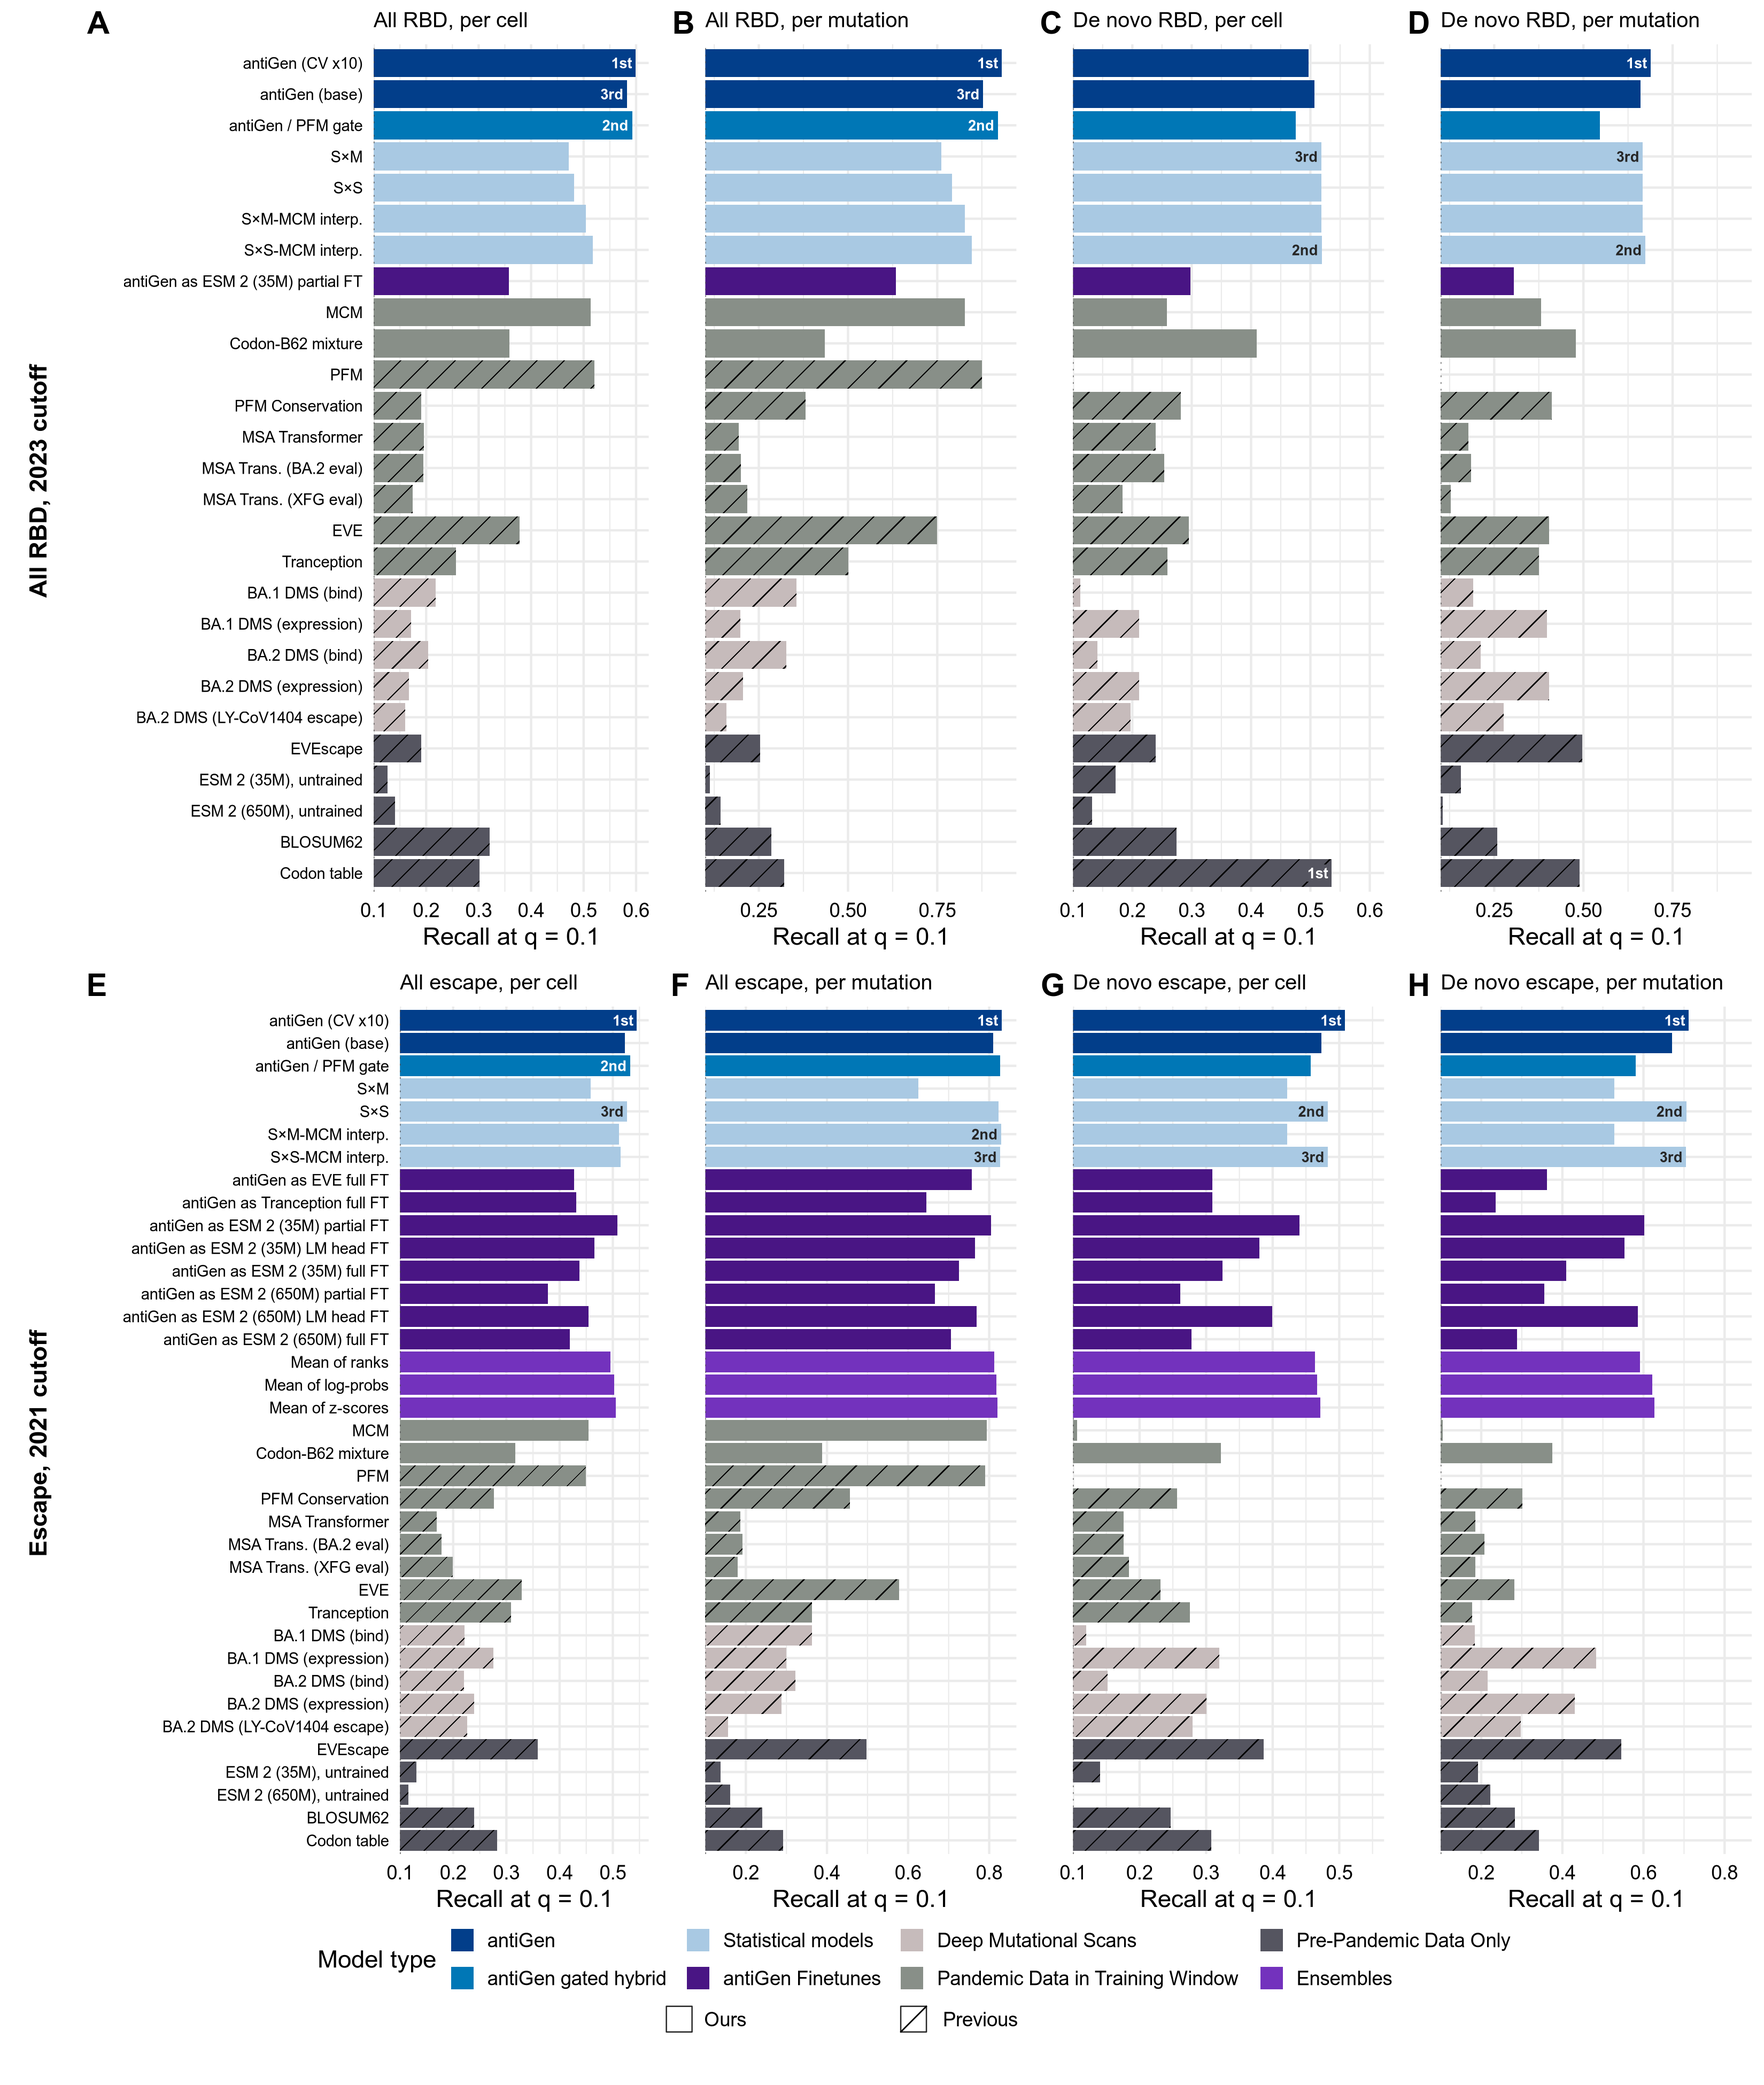
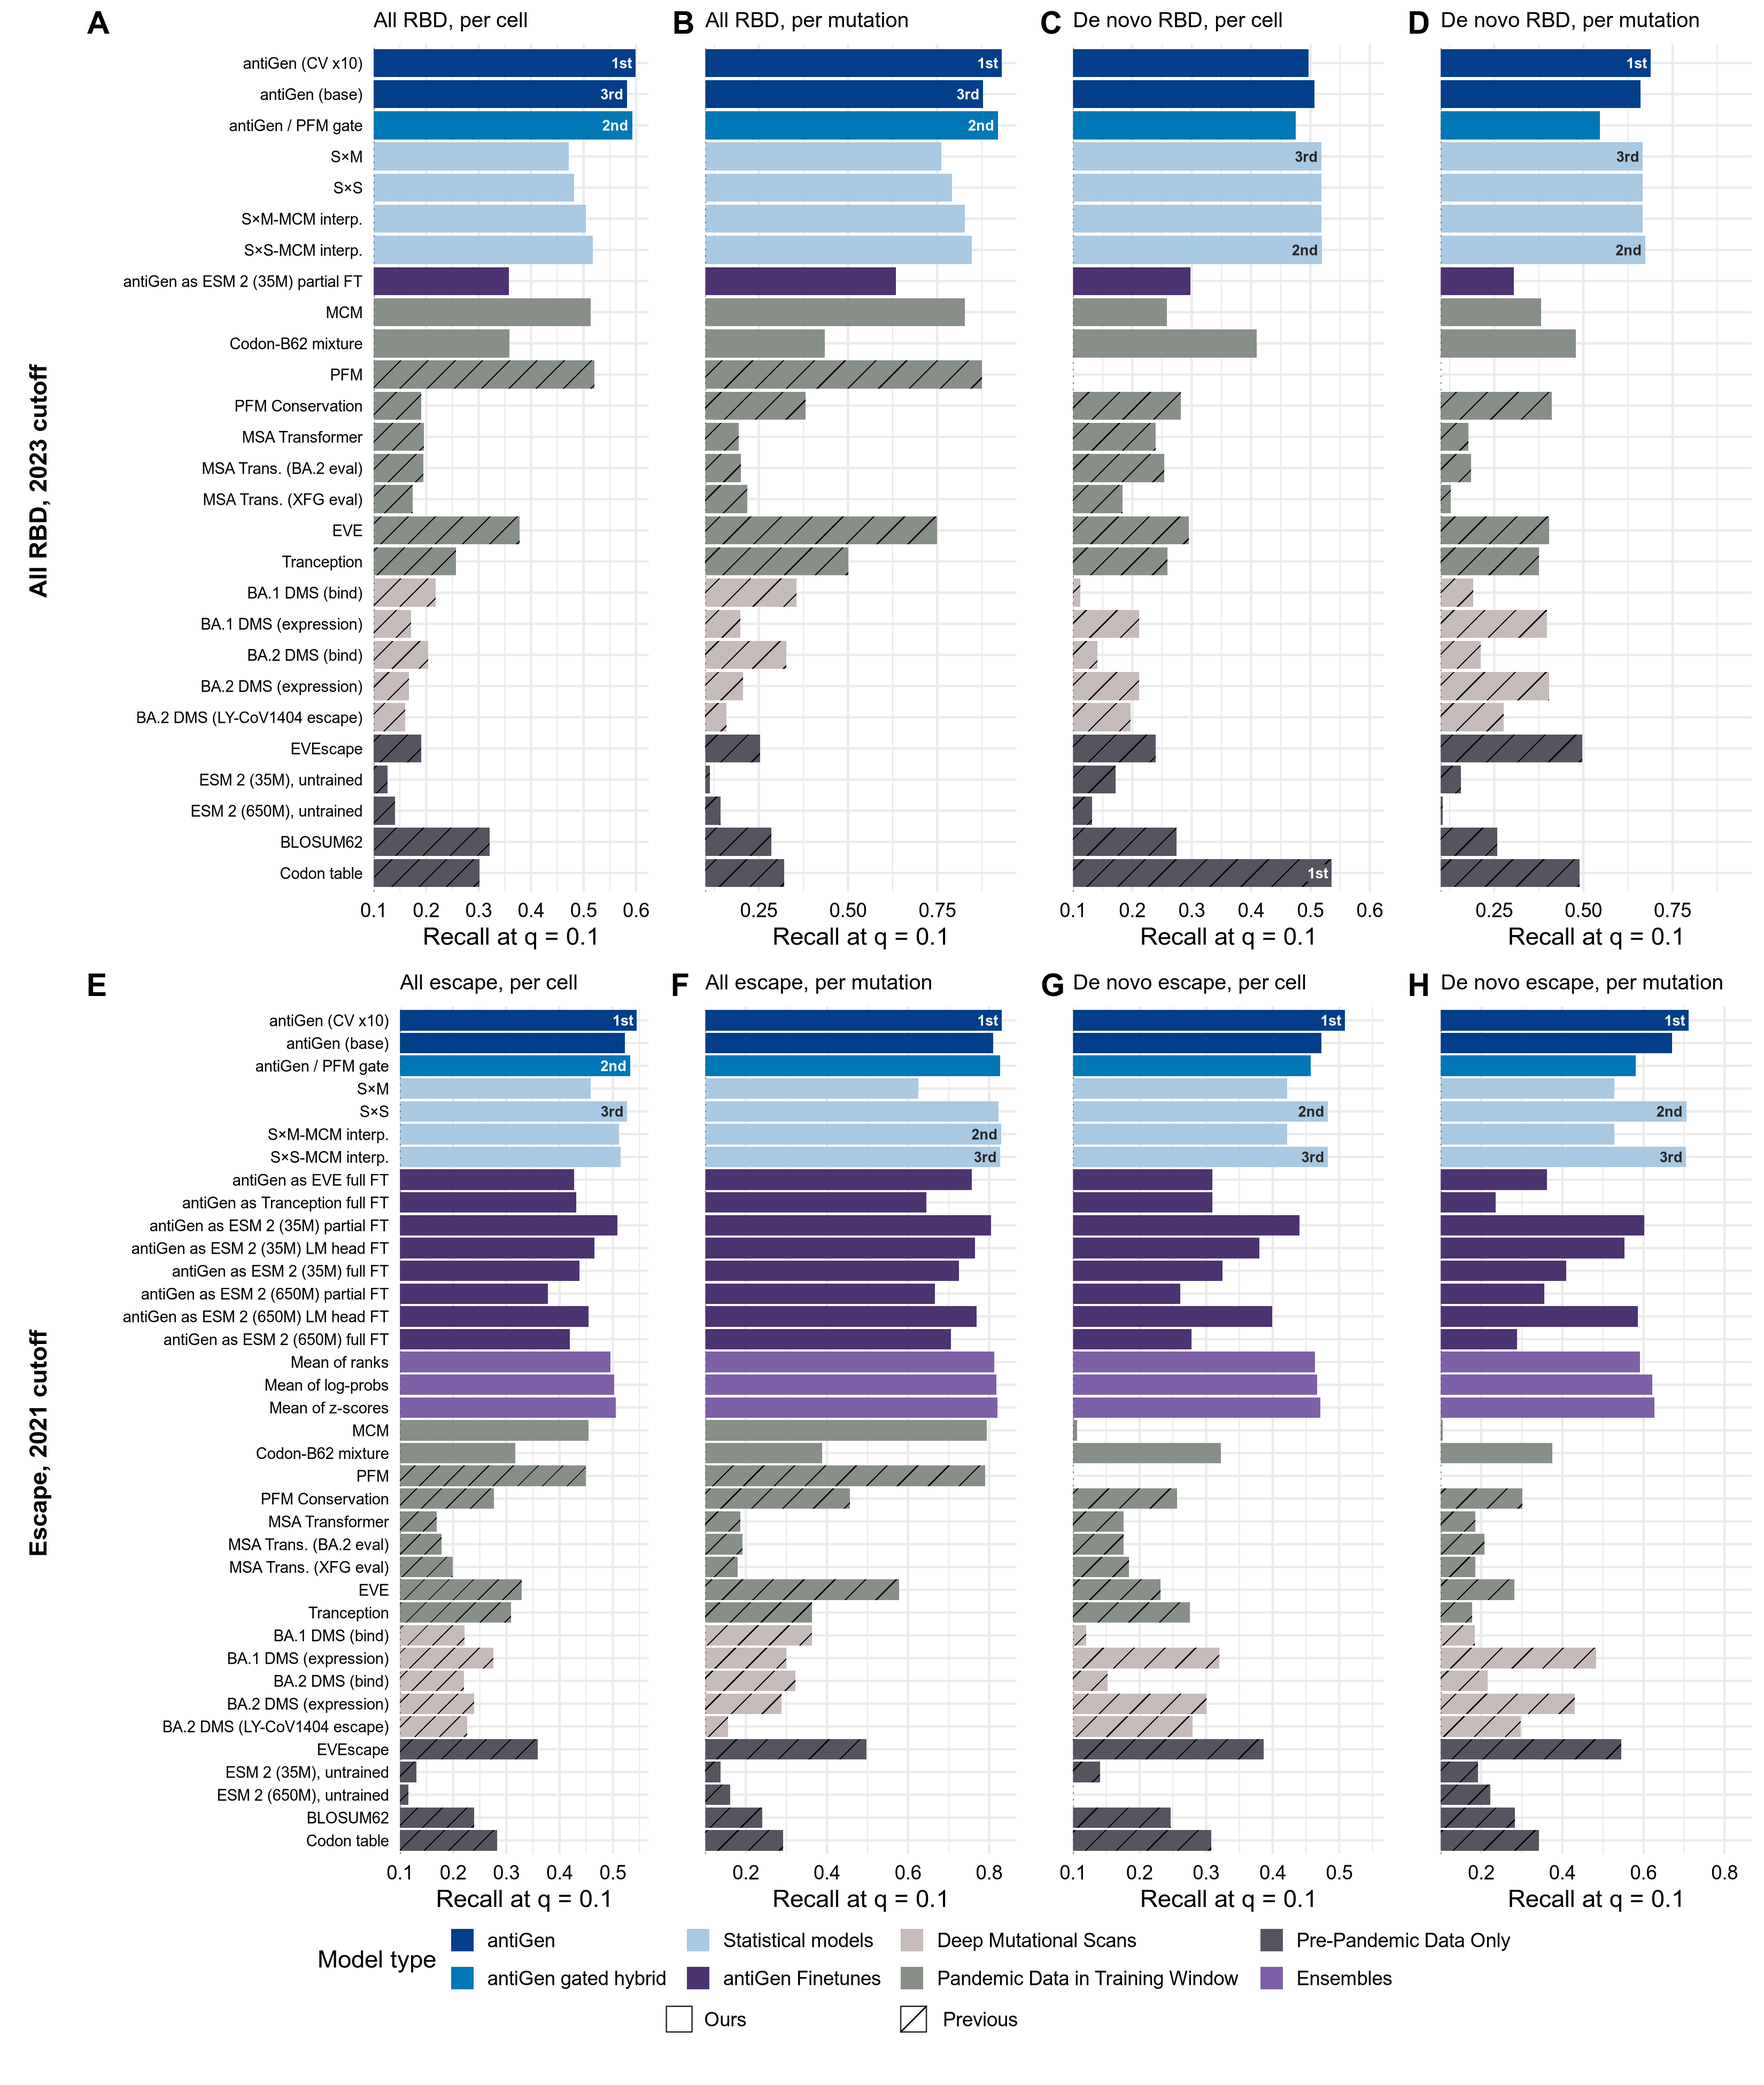
revised2 supp: muted purples for finetunes and mean rules (s146)

diff --git a/experiments/multitree/NOTES.md b/experiments/multitree/NOTES.md
@@ -13099,3 +13099,9 @@ On request, `sc2_results_revised2_supp` recolours the antiGen Finetunes from bro
 lightness). The three mean rules go from orange (#bc6c25) to a lighter purple, #7332bd
 (hsl 268, 58%, 47%), stepped up the way GATE_BLUE is from ANTIGEN_BLUE. Applied only
 under `REVISED2_FULL`; every other figure keeps the drawer's palette.
+
+## 146. The s145 purples, muted (2026-11-09)
+
+On request, the purples are desaturated. Finetunes #491584 -> #4c3371 (hsl 265, 38%,
+32%); mean rules #7332bd -> #7e60a9 (hsl 265, 30%, 52%). The light-over-dark step that
+echoes the gate is unchanged.
